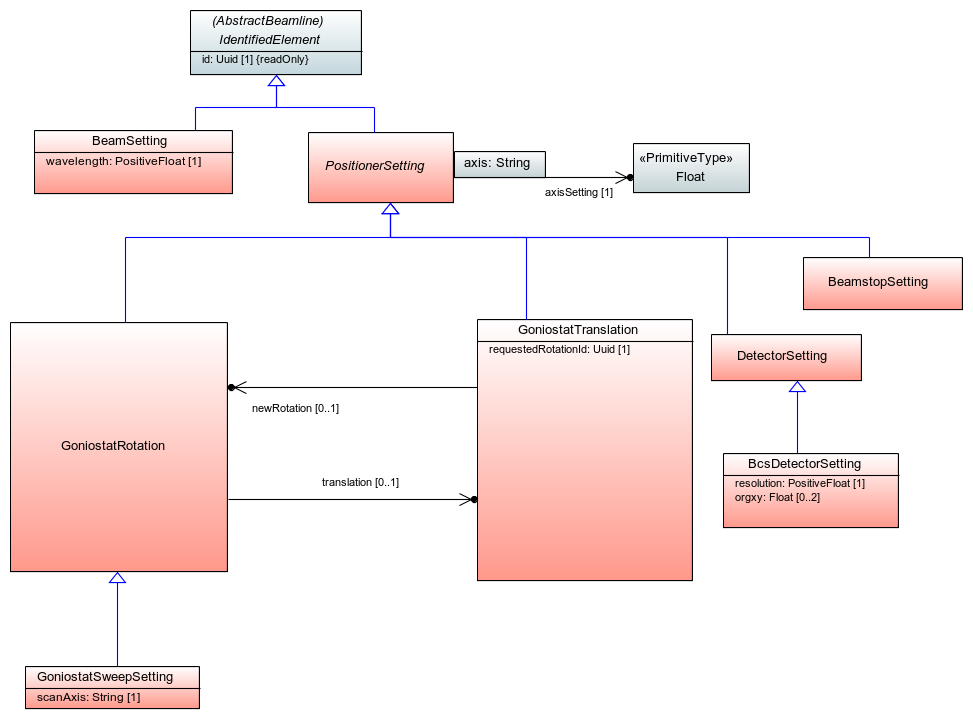
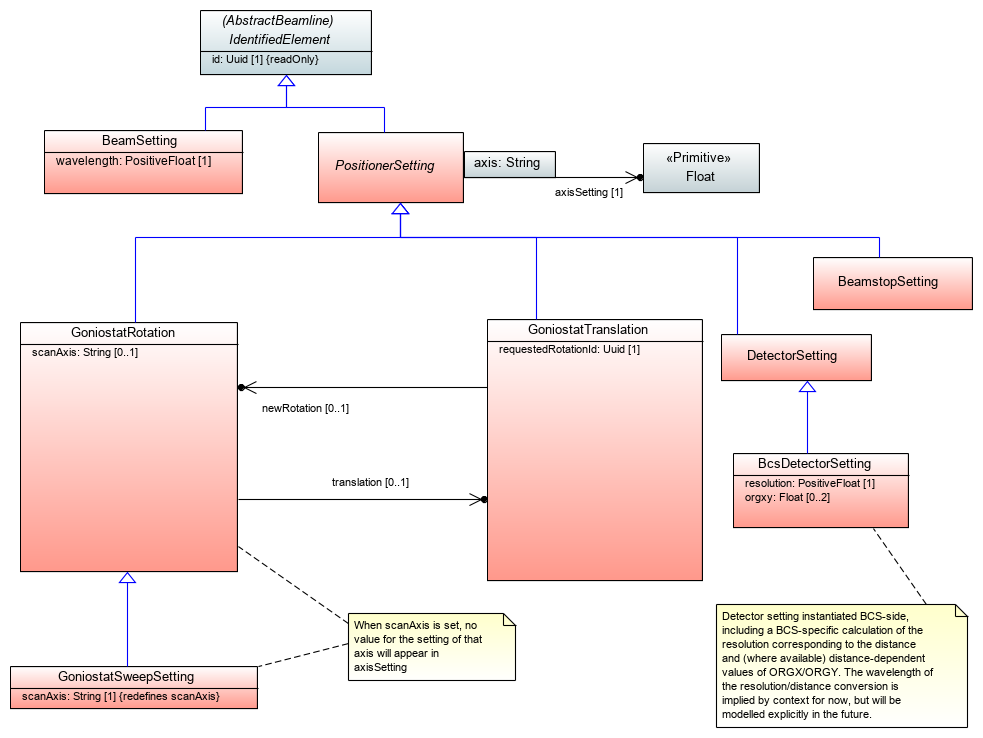
Handle scan axis better:
* Optionally specify it for a general GoniostatRotation
 * Don't include dummy setting for scan axis setting

diff --git a/com.globalphasing.sdcp.abstract_beamline/src/co/gphl/beamline/v2_unstable/instrumentation/GoniostatRotation.java b/com.globalphasing.sdcp.abstract_beamline/src/co/gphl/beamline/v2_unstable/instrumentation/GoniostatRotation.java
@@ -24,4 +24,6 @@ public interface GoniostatRotation extends PositionerSetting {
     GoniostatTranslation getTranslation();
     boolean isSetTranslation();
     
+    String getScanAxis();
+    boolean isSetScanAxis();
 }

diff --git a/com.globalphasing.sdcp.abstract_beamline/src/co/gphl/beamline/v2_unstable/instrumentation/GoniostatSweepSetting.java b/com.globalphasing.sdcp.abstract_beamline/src/co/gphl/beamline/v2_unstable/instrumentation/GoniostatSweepSetting.java
@@ -18,6 +18,5 @@ package co.gphl.beamline.v2_unstable.instrumentation;
  */
 public interface GoniostatSweepSetting extends GoniostatRotation {
 
-    String getScanAxis();
     
 }
